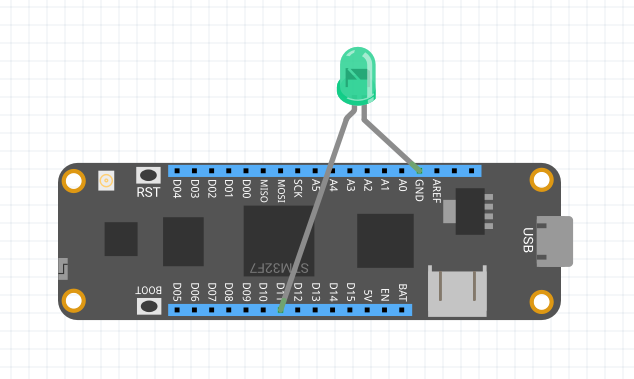
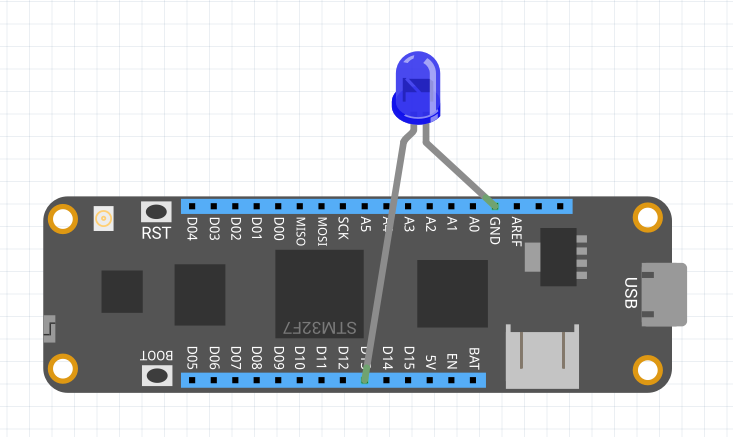
Update Meadow.Foundation Getting Started Guide

Changed region(s): [[0.0599, 0.1161, 0.959, 0.8997]]

diff --git a/docs/Meadow/Meadow.Foundation/Getting_Started/index.md b/docs/Meadow/Meadow.Foundation/Getting_Started/index.md
@@ -9,24 +9,36 @@ subtitle: Meadow.Foundation
 1. [Configure your Meadow development environment](/Meadow/Getting_Started/Setup).
 1. Create a new .NET console application.
 1. `Install-Package Meadow.Foundation` (Detailed NuGet instructions: [Mac](https://docs.microsoft.com/en-us/visualstudio/mac/nuget-walkthrough), [Windows](https://docs.microsoft.com/en-us/nuget/tools/package-manager-ui)).
-1. Plug the longer leg (anode) of a green LED into pin `11` and the other leg into `GND`:
+1. Plug the longer leg (anode) of a blue LED into pin `13` and the other leg into `GND`:
 ![](PwmLed.png)
 1. Add the following code to the `program.cs` file in your application, then deploy and run:
 
 ```csharp
-using Meadow;
-using Meadow.Foundation;
+using System;
 using System.Threading;
+using Meadow;
+using Meadow.Devices;
+using Meadow.Foundation.Leds;
 
 namespace HelloPulsy
 {
-    public class HelloWorldProgram
+    class Program
     {
-        public static void Main()
+        static IApp app;
+        public static void Main(string[] args)
         {
-            // create a new LED on pin 11
-            var pwmLed = new LEDs.PwmLed(Device.Pins.D11, 
-                LEDs.TypicalForwardVoltage.Green);
+            if (args.Length > 0 && args[0] == "--exitOnDebug") return;
+
+            // instantiate and run new meadow app
+            app = new MeadowApp();
+        }
+    }
+
+    public class MeadowApp : App<F7Micro, MeadowApp>
+    {
+        public MeadowApp()
+        {
+            var pwmLed = new PwmLed(Device, Device.Pins.D13, TypicalForwardVoltage.Blue);
 
             // pulse the LED
             pwmLed.StartPulse();
@@ -39,6 +51,8 @@ namespace HelloPulsy
 ```
 
 That's it, and you're up and running using Meadow.Foundation!
+
+![](HelloPulsy.gif)
 
 Next up, check out how to work with sensors; which comprise a huge portion of the Meadow.Foundation [peripheral library](/Meadow/Meadow.Foundation/Peripherals).
 
